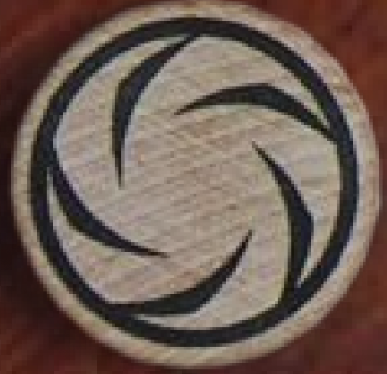
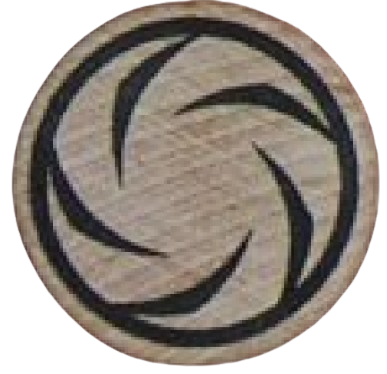
Atualização dos assets visuais
* As imagens das peças e do tabuleiro não têm mais plano de fundo.

Changed region(s): [[0.0, 0.0, 1.0, 1.0]]

diff --git a/src/INE5417/display/player_interface.py b/src/INE5417/display/player_interface.py
@@ -27,12 +27,13 @@ class PlayerInterface(DogPlayerInterface):
         super().__init__()
         self.root: tk.Tk = tk.Tk()
         self.board: Board = Board()
+        #TODO: Entender o motivo da chave ser str
         self.assets: dict[str, ImageTk.PhotoImage] = self.load_assets()
         self.stone_buttons: dict[str, ttk.Button] = {}
         self.stone_buttons_state: str = tk.DISABLED
         self.populate_window()
         self.menu_file: tk.Menu = self.initialize_menubar()
-        # self.player_name: str = self.get_player_name()
+        self.player_name: str = self.get_player_name()
         self.player_name: str = ""
         self.dog: DogActor = DogActor()
         self.initialize_dog()
